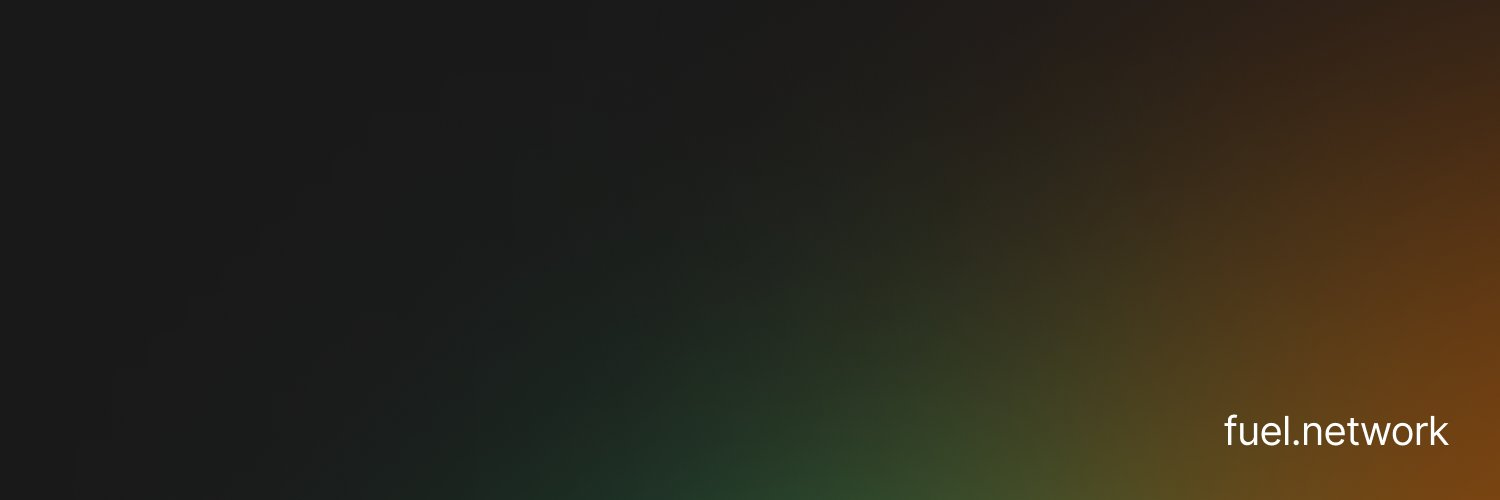
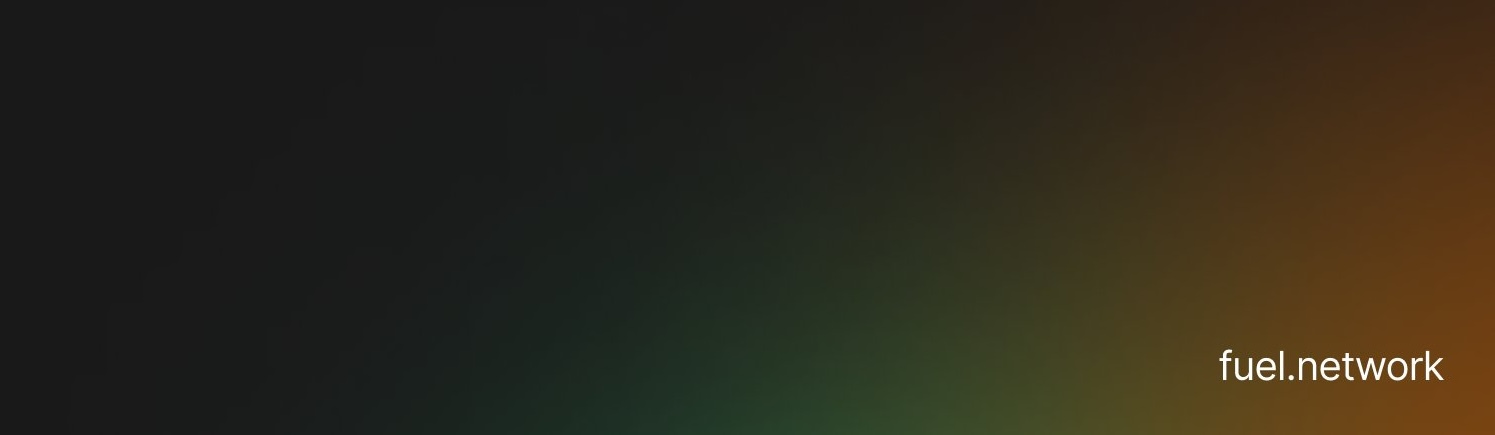
GITBOOK-79: No subject

Changed region(s): [[0.8, 0.8069, 0.9846, 0.8966]]

diff --git a/guias/fuel/README.md b/guias/fuel/README.md
@@ -1,7 +1,7 @@
 ---
 icon: square-up-left
-cover: ../../.gitbook/assets/1500x500-11.jpeg
-coverY: -205.74100719424462
+cover: ../../.gitbook/assets/1500x500-11 (3).jpeg
+coverY: -135.87769784172664
 ---
 
 # Fuel
